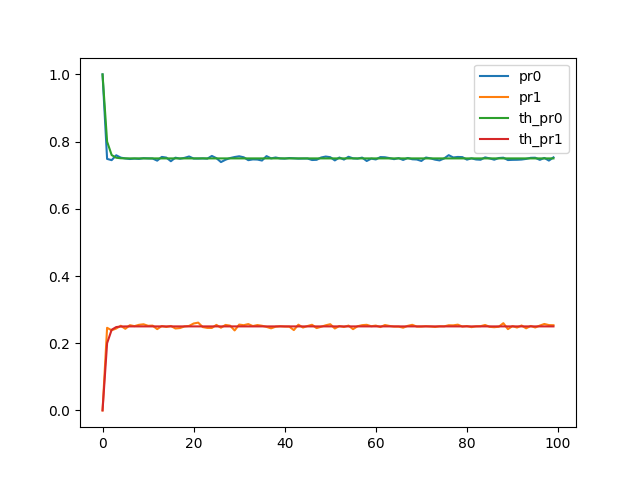
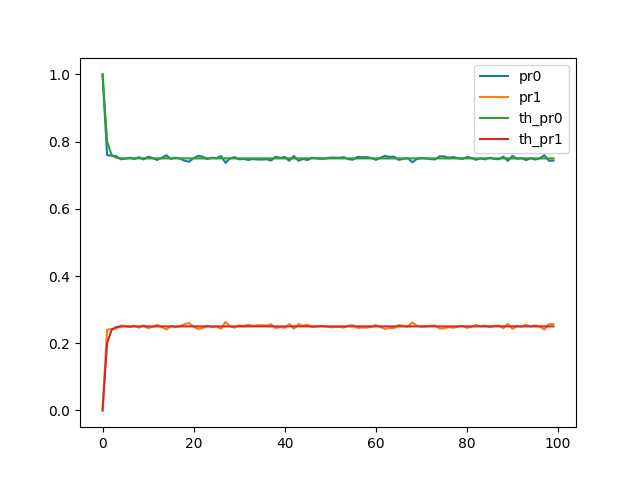
optimize simulate function

Changed region(s): [[0.1562, 0.3125, 0.875, 0.3438], [0.4062, 0.6562, 0.875, 0.6875], [0.1875, 0.6562, 0.375, 0.6875]]

diff --git a/first/one.cc b/first/one.cc
@@ -7,15 +7,15 @@ using namespace Eigen;
 
 namespace plt = matplotlibcpp;
 
-double simulate(int time, int iterations, int state, Matrix2d &transitionMatrix) {
+std::pair<double, double> simulate(int time, int iterations, Matrix2d &transitionMatrix) {
   std::mt19937 rng;
   rng.seed(std::random_device()());
   std::uniform_real_distribution<float> dist(0.f, 1.f);
 
-  int state_count = 0;
-  
-  if (state == 1 && time == 0) return 0.0;
-  int currentState = state;
+  int state0_count = 0;
+  int state1_count = 0;
+  int currentState = 0;
+
   for (int i = 0; i < iterations; i++) {
     for (int j = 0; j < time; j++) {
       if (currentState == 0) {
@@ -24,18 +24,19 @@ double simulate(int time, int iterations, int state, Matrix2d &transitionMatrix)
         if (dist(rng) > transitionMatrix(1, 1)) currentState = 0;
       }
     }
-    if (currentState == state) state_count++;
+    if (currentState == 0) state0_count++;
+    if (currentState == 1) state1_count++;
   }
-  return double(state_count) / iterations;
+  return {double(state0_count) / iterations, double(state1_count) / iterations};
 }
 
-std::vector<double> theoretic_probabilities(int time, int state, Matrix2d &transitionMatrix) {
-  std::vector<double> th_prob;
-  state == 0 ? th_prob.push_back(1.0) : th_prob.push_back(0.0);
+std::vector<std::pair<double, double>> theoretic_probabilities(int time, Matrix2d &transitionMatrix) {
+  std::vector<std::pair<double, double>> th_prob;
+  th_prob.push_back({1.0, 0.0});
   RowVector2d p0(1.0, 0.0);
   for (int t = 1; t < time; t++) {
     p0 = p0 * transitionMatrix;
-    th_prob.push_back(p0(state));
+    th_prob.push_back({p0(0), p0(1)});
   }
   return th_prob;
 }
@@ -51,12 +52,16 @@ int main() {
   std::vector<double> pr1(time);
   std::vector<double> x(time);
 
-  std::vector<double> th_pr0 = theoretic_probabilities(time, 0, transitionMatrix);
-  std::vector<double> th_pr1 = theoretic_probabilities(time, 1, transitionMatrix);
-
+  std::vector<std::pair<double, double>> th_pr = theoretic_probabilities(time, transitionMatrix);
+  std::vector<double> th_pr0(time);
+  std::vector<double> th_pr1(time);
+  
   for (int t = 0; t < time; t++) {
-    pr0[t] = simulate(t, iterations, 0, transitionMatrix);
-    pr1[t] = simulate(t, iterations, 1, transitionMatrix);
+    std::pair<double, double> prob = simulate(t, iterations, transitionMatrix);
+    pr0[t] = prob.first;
+    pr1[t] = prob.second;
+    th_pr0[t] = th_pr[t].first;
+    th_pr1[t] = th_pr[t].second;
     x[t] = t;
   }
 
